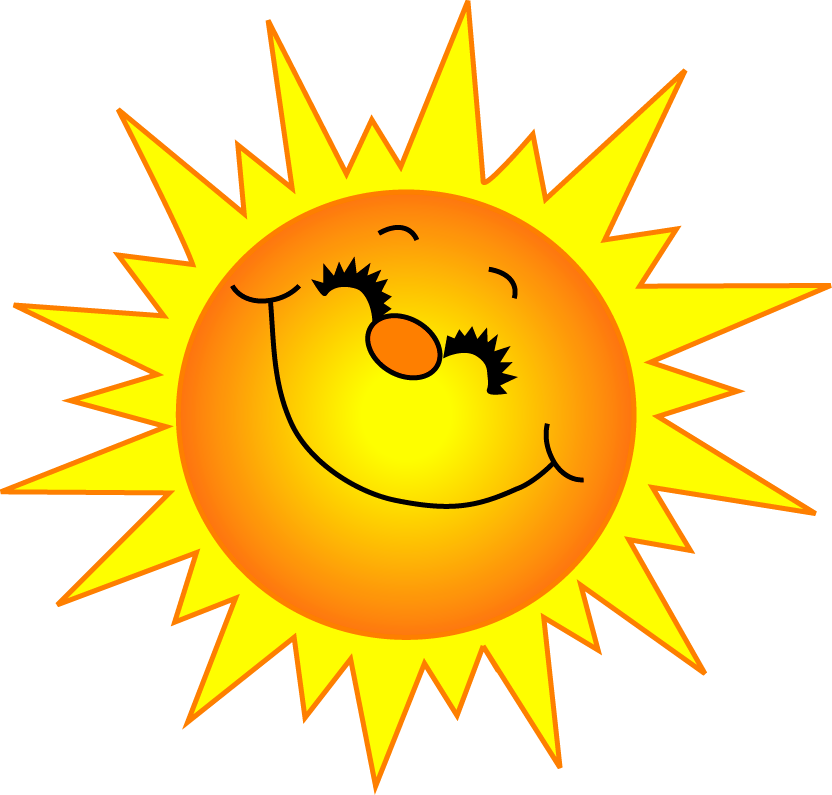
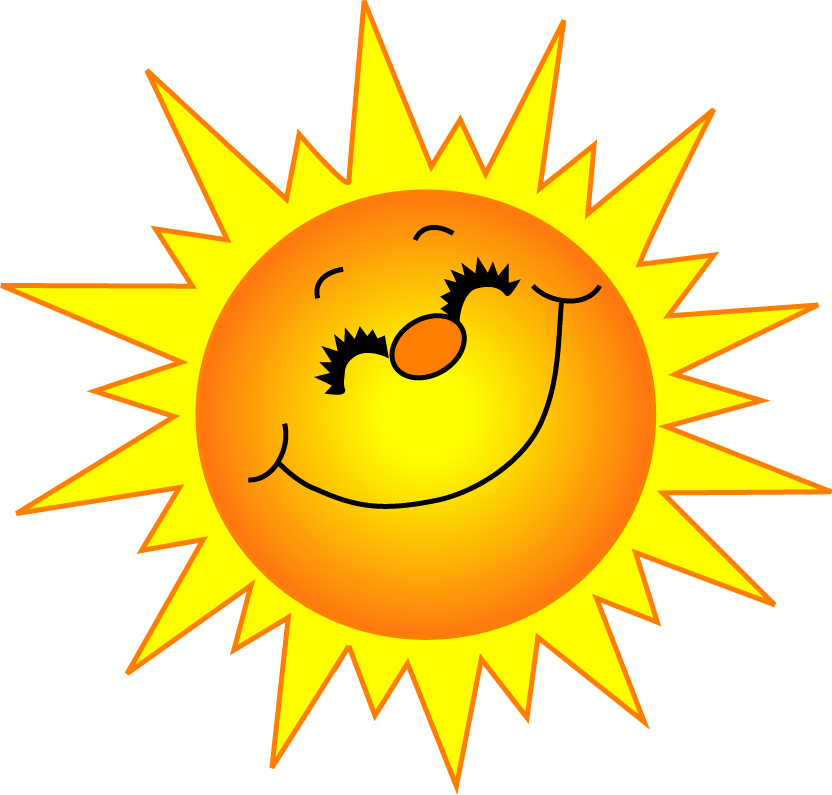
Responsive image saver. Layout fixes.

Changed region(s): [[0.0, 0.0, 1.0, 0.9962], [0.3125, 0.5132, 0.6875, 0.6642]]

diff --git a/index.js b/index.js
@@ -1,12 +1,22 @@
+/* TODO
+ * - only show relevant buttons
+ * - load image on click
+ * - on save, invert image, shutter sound
+ * 
+ * - get train, and artwork
+ */
+
+
 var app = angular.module("sprayit", []);
 
 app.controller("SprayController", function($scope, $timeout, spray) {
   $scope.images = spray.load();
-  
-  $scope.save = function(){
+
+  $scope.save = function() {
     spray.save($scope.images, $("canvas").get(0).toDataURL());
+    $scope.init();
   };
-  
+
   $timeout(function() {
     $scope.reset();
   });
@@ -87,9 +97,9 @@ app.directive("sprayCanvas", function($timeout) {
           var x = lastPoint.x + (Math.sin(angle) * i);
           var y = lastPoint.y + (Math.cos(angle) * i);
           var radgrad = context.createRadialGradient(x, y, size, x, y, size * 2);
-          radgrad.addColorStop(1, 'rgba('+color+','+color+','+color+',1)');
-          radgrad.addColorStop(0.5, 'rgba('+color+','+color+','+color+',0.5)');
-          radgrad.addColorStop(1, 'rgba('+color+','+color+','+color+',0)');
+          radgrad.addColorStop(1, 'rgba(' + color + ',' + color + ',' + color + ',1)');
+          radgrad.addColorStop(0.5, 'rgba(' + color + ',' + color + ',' + color + ',0.5)');
+          radgrad.addColorStop(1, 'rgba(' + color + ',' + color + ',' + color + ',0)');
           context.fillStyle = radgrad;
           context.fillRect(x - (size * 2), y - (size * 2), (size * 4), (size * 4));
         }
@@ -101,7 +111,7 @@ app.directive("sprayCanvas", function($timeout) {
 
       // Resize and redraw the canvas
       $scope.init = function() {
-        $scope.width = window.innerWidth - 30; // col-xs-12 width
+        $scope.width = window.innerWidth * 5 / 6; // col-xs-10 width
         $scope.height = window.innerHeight * 0.8; // row2 height
         context.canvas.width = $scope.width;
         context.canvas.height = $scope.height;
@@ -118,8 +128,9 @@ app.directive("sprayCanvas", function($timeout) {
           }
           context.drawImage(train, ($scope.width - width) / 2, ($scope.height - height) / 2, width, height);
           $timeout(function() {
-            $scope.loaded = true;
             $("#control > button:first").click();
+            isDrawing = false;
+            $scope.loaded = true;
           });
         };
         train.src = 'img/train.svg';

diff --git a/index.html b/index.html
@@ -23,20 +23,28 @@
     </div>
 
     <div class="container-fluid ng-cloak" ng-show="loaded">
-      <div class="row row1">
-        <div id="content" class="col-xs-12">
-          <div class="sun">
-            <img class="img-responsive" alt="sun" src="img/sun.png"/>
+      <div class="col-xs-10">
+        <div class="row row1">
+          <div id="content" class="col-xs-12">
+            <div class="sun">
+              <img class="img-responsive" alt="sun" src="img/sun.png"/>
+            </div>
+            <canvas spray-canvas></canvas>
           </div>
-          <canvas spray-canvas></canvas>
         </div>
-      </div>
-      <div class="row row2">
-        <div id="control" class="col-xs-12">
-          <button type="button" class="btn btn-default pull-left" ng-click="color($event, '0')">Black</button>
-          <button type="button" class="btn btn-default pull-left" ng-click="color($event, '250')">White</button>
-          <button type="button" class="btn btn-default pull-right" ng-click="reset()">New</button>
-          <button type="button" class="btn btn-default pull-right" ng-click="save()">Save</button>
+        <div class="row row2">
+          <div id="control" class="col-xs-12">
+            <button type="button" class="btn btn-default pull-left" ng-click="color($event, '0')">Black</button>
+            <button type="button" class="btn btn-default pull-left" ng-click="color($event, '250')">White</button>
+            <button type="button" class="btn btn-default pull-right" ng-click="reset()">New</button>
+            <button type="button" class="btn btn-default pull-right" ng-click="save()">Save</button>
+          </div>
+        </div>      
+      </div>      
+      <div id="images" class="col-xs-2">
+        <div class="image row" ng-repeat="image in images">
+          <img class="img-responsive img-thumbnail img-rounded" ng-src="{{image.src}}" />
+          <div class="spacer">&nbsp;</div>
         </div>
       </div>      
     </div>

diff --git a/index.css b/index.css
@@ -1,3 +1,11 @@
+* {
+   -moz-user-select: -moz-none;
+   -khtml-user-select: none;
+   -webkit-user-select: none;
+   -ms-user-select: none;
+   user-select: none;
+}
+
 html, body {
   height: 100%;
   overflow: hidden;
@@ -24,31 +32,50 @@ img#loading {
 
 div.container-fluid {
   height: 100%;
+  padding-left: 0;
+  padding-right: 0;
 }
 
 div.row1 {
   height: 80%;
 }
-
+div#content {
+  padding-left: 0;
+  padding-right: 0;
+}
 div.sun {
   top: 0;
-  right: 0;
+  left: 0;
   position: absolute;
   width: 10%;
   height: 10%;
 }
 div.sun > img {
-  -ms-transform: translate(20%, -20%);
-  -webkit-transform: translate(20%, -20%);
-  transform: translate(20%, -20%);
+  -ms-transform: translate(-20%, -20%);
+  -webkit-transform: translate(-20%, -20%);
+  transform: translate(-20%, -20%);
 }
 
 div.row2 {
   height: 20%;
 }
-
 button {
   margin: 0 1% 0 1%;
+}
+
+div#images {
+  height: 100%;
+  overflow-y: scroll;
+}
+div.row.image {
+  text-align: center; 
+}
+diw.row.image > img {
+  margin-left: auto;
+  margin-right: auto;
+}
+div.spacer {
+  line-height: 0.5em;
 }
 
 @media (min-width: 768px) { 
